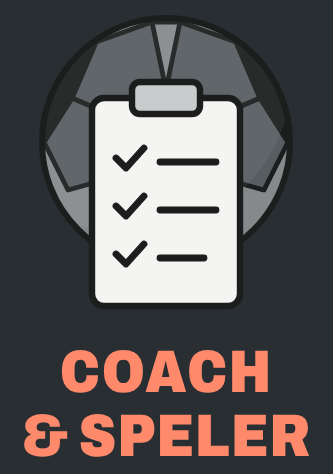
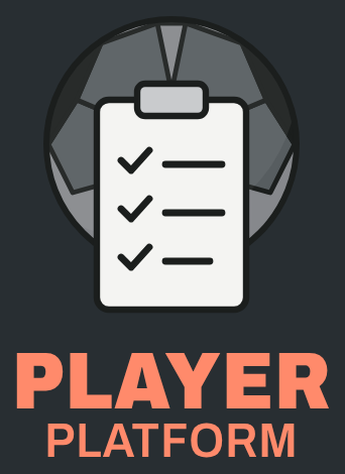
Hub: kleinere slogan, sterkere knoppen, Player Platform-badge op lijn met kaart 1
Claude-Session: https://claude.ai/code/session_01Geu9Z3W3kcnzSzp5PGucqz

diff --git a/index.html b/index.html
@@ -157,6 +157,22 @@ a.vak[style*="--mod"]:hover{border-color:var(--mod)}
 .waarom p{font-size:13.5px;line-height:1.42}
 .voet{padding:5px 0 8px;font-size:13px}
 .voet .hand{font-size:20px}
+
+/* Kaart 1 rustiger kop, sterkere knoppen; kaart 2 badge op dezelfde lijn */
+.vak.een h1{font-size:clamp(19px,min(2vw,3.1vh),30px);line-height:1.15}
+.vak.een h1 em{padding-right:.08em}
+.duo{gap:10px}
+.deel{background:rgba(255,255,255,.04);border-color:#3A6870;padding:10px 12px;gap:14px;min-height:124px}
+.deel img{height:clamp(78px,11.2vh,118px)}
+.deel b{font-size:14px;color:#F2EFE6;letter-spacing:.05em}
+.knoppen{gap:7px!important}
+.knoppen a{font-size:14.5px;padding:8px 10px;border-color:#7FA3A8}
+.knoppen a:hover{border-color:#F2EFE6;background:rgba(255,255,255,.06)}
+.knoppen a.vol{box-shadow:0 2px 0 #B98F2A}
+.vak .intro{margin:0}
+.deel.platform{margin-top:auto;grid-template-columns:auto 1fr;align-items:center}
+.deel.platform .punten{gap:6px}
+.kopstatus{margin:0 0 0 auto!important;font-size:20px}
 @media (max-width:860px){.pagina{min-height:0;grid-template-rows:none}.vakken{grid-auto-rows:auto}.inhoud{grid-template-columns:86px 1fr}.vak p{font-size:14px}.punten li{font-size:13px}.deel img{height:70px}}
 </style>
 </head>
@@ -178,7 +194,7 @@ a.vak[style*="--mod"]:hover{border-color:var(--mod)}
   <!-- 01 Oefenmatch & Tornooi -->
   <section class="vak een">
     <div class="vak-kop"><h2>Oefenmatch &amp; Tornooi</h2><span class="lint">Nu open</span></div>
-    <h1>Nog geen <em>tegenstander</em> voor zaterdag of <em>tornooi</em> voor de paasvakantie?</h1>
+    <h1>Nog geen <em>tegenstander</em>&nbsp;voor zaterdag of <em>tornooi</em>&nbsp;voor de paasvakantie?</h1>
     <div class="duo">
       <div class="deel">
         <a href="tornooi/#/wedstrijden"><img src="assets/oefenmatch.png" alt="Club Friendlies"></a>
@@ -193,14 +209,11 @@ a.vak[style*="--mod"]:hover{border-color:var(--mod)}
 
   <!-- 02 Coach & Speler -->
   <a class="vak" href="coach/" style="--mod:#FF8A6B">
-    <div class="vak-kop"><h2>Coach &amp; Speler</h2></div>
-    <div class="inhoud">
-      <img src="assets/coach-k.png" alt="">
-      <div class="tekst">
-        <p>Je ploeg online. Spelers vullen hun eigen fiche in en analyseren na elke match zichzelf, hun ploegmaats en de tegenstander.</p>
-        <ul class="punten"><li>Eigen profiel en voetbalfiche per speler</li><li>Evaluatie na elke match: zelf, ploegmaats en tegenstander</li><li>Jij kiest categorie, formaat en groepen</li></ul>
-        <span class="status">binnenkort</span>
-      </div>
+    <div class="vak-kop"><h2>Coach &amp; Speler</h2><span class="status kopstatus">binnenkort</span></div>
+    <p class="intro">Je ploeg online. Spelers vullen hun eigen fiche in en analyseren na elke match zichzelf, hun ploegmaats en de tegenstander.</p>
+    <div class="deel platform">
+      <img src="assets/coach-k.png" alt="Player Platform">
+      <ul class="punten"><li>Eigen profiel en voetbalfiche per speler</li><li>Evaluatie na elke match: zelf, ploegmaats en tegenstander</li><li>Jij kiest categorie, formaat en groepen</li></ul>
     </div>
   </a>
 
